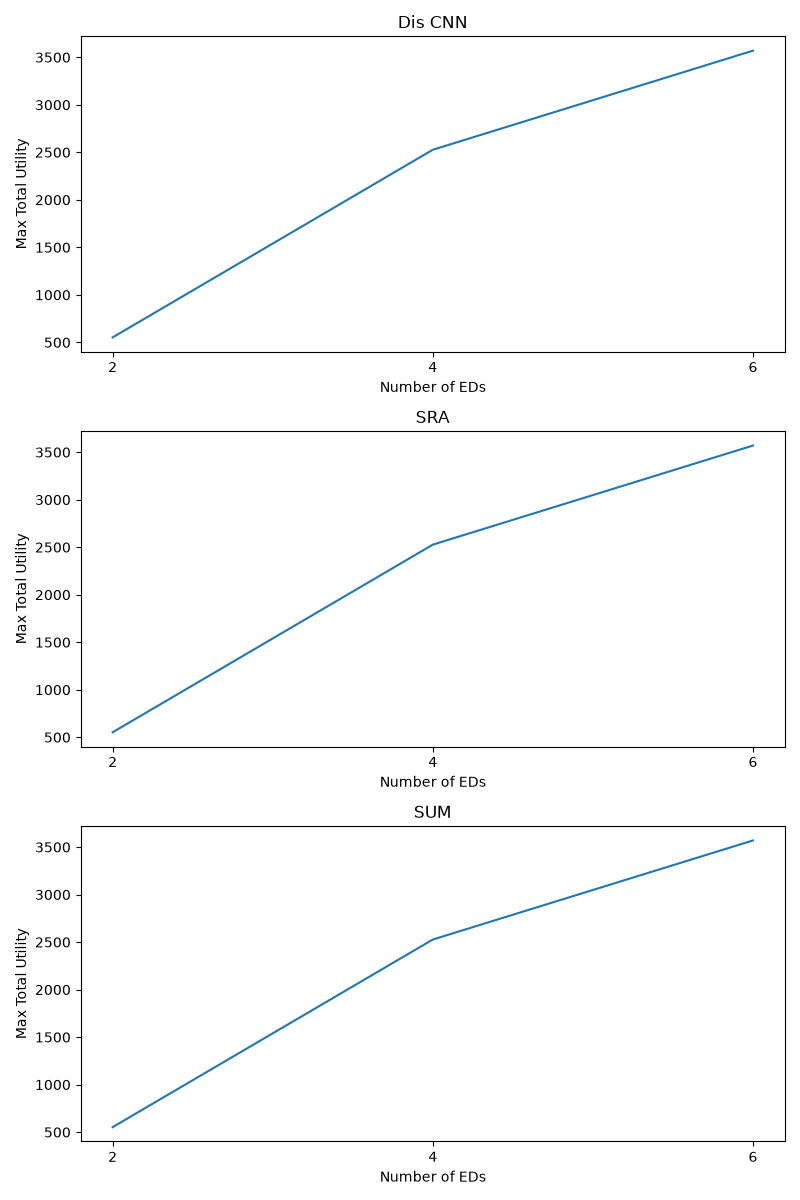
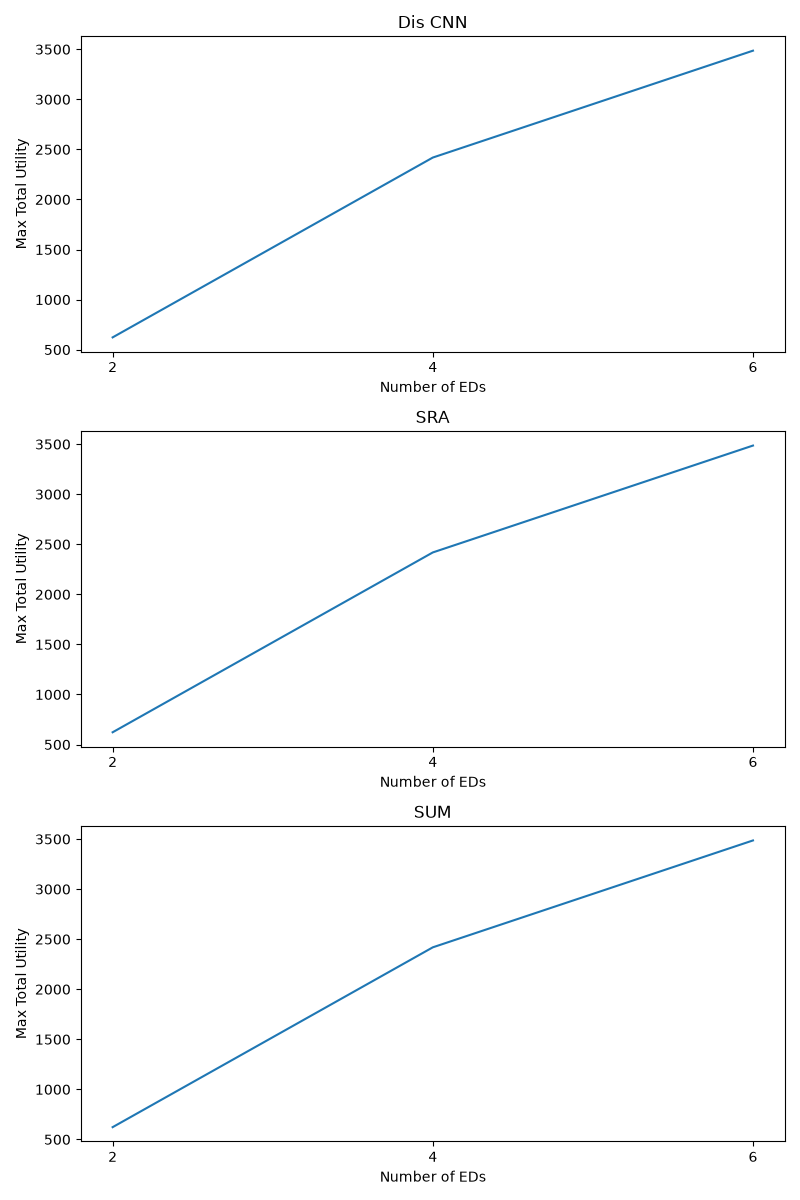
graph part done final

diff --git a/Code/Algos/ServerRA.py b/Code/Algos/ServerRA.py
@@ -1,24 +1,18 @@
-<<<<<<< HEAD
 from Algos.Classes.ED import ED
 import numpy as np
 from typing import List
 from Algos.ServerRA_i import SRA_i
-=======
-from Classes.ED import ED
+from Algos.Classes.ED import ED
 import numpy as np
 from typing import List
-from ServerRA_i import SRA_i
->>>>>>> 57098279b8d8c16bd1b326f527733df340d21a7e
+from Algos.ServerRA_i import SRA_i
 
 #Server Resource Allocation
 
 def SRA(NoX: List[ED], W: float, F: float):
 
-<<<<<<< HEAD
     how_many_get_res=0
 
-=======
->>>>>>> 57098279b8d8c16bd1b326f527733df340d21a7e
     UxNoX: float = 0
     Wi_list: list[float] = []
     Fi_list: list[float] = []
@@ -39,23 +33,17 @@ def SRA(NoX: List[ED], W: float, F: float):
 
     for ed in NoX:
        
-<<<<<<< HEAD
      result = SRA_i(ed, W, F)
      # print(ed.id, result)
-=======
-     result = SRA_i(ed, W, F, 1e-5, 1e-5)
-     print(ed.id, result)
->>>>>>> 57098279b8d8c16bd1b326f527733df340d21a7e
-       
+     # result = SRA_i(ed, W, F, 1e-5, 1e-5)
+     # print(ed.id, result)
+
      if result is None:
             continue
        
      utility, wi, fi = result
-<<<<<<< HEAD
      # print(utility, wi, fi)
-=======
-     print(utility, wi, fi)
->>>>>>> 57098279b8d8c16bd1b326f527733df340d21a7e
+     # print(utility, wi, fi)
 
      if utility > 0 and wi > 0 and fi > 0:
                 
@@ -65,11 +53,8 @@ def SRA(NoX: List[ED], W: float, F: float):
                 
           W -= wi
           F -= fi
-<<<<<<< HEAD
           how_many_get_res += 1
-=======
->>>>>>> 57098279b8d8c16bd1b326f527733df340d21a7e
-        
+
      else:
 
           Wi_list.append(0.0)
@@ -133,8 +118,5 @@ def SRA(NoX: List[ED], W: float, F: float):
         #     if (pi_max != float('-inf')):
         #         UxNoX += pi_max
 
-<<<<<<< HEAD
     return UxNoX, Wi_list, Fi_list, how_many_get_res
-=======
-    return UxNoX, Wi_list, Fi_list
->>>>>>> 57098279b8d8c16bd1b326f527733df340d21a7e
+    # return UxNoX, Wi_list, Fi_list

diff --git a/Code/Algos/test.py b/Code/Algos/test.py
@@ -1,5 +1,4 @@
 from random import randint
-<<<<<<< HEAD
 from Algos.Classes.ED import ED
 import numpy as np
 from Algos.Classes.Model import Layers, Model
@@ -8,16 +7,6 @@ from Algos.MUMS import *
 from Algos.Classes.ED import ED
 from Algos.ServerRA import SRA
 from Algos.SingletonUM import SUM
-=======
-from Classes.ED import ED
-import numpy as np
-from Classes.Model import Layers, Model
-# from typing import Set, List
-from MUMS import *
-from Classes.ED import ED
-from ServerRA import SRA
-from SingletonUM import SUM
->>>>>>> 57098279b8d8c16bd1b326f527733df340d21a7e
 
 #storage is assumed to be in MBs
 #computation resources for ED defined in MHz FLOPS

diff --git a/Code/Algos/MUMS.py b/Code/Algos/MUMS.py
@@ -1,17 +1,10 @@
 #Model Utility Maximization Algorithm
 
 import numpy as np
-<<<<<<< HEAD
 from Algos.Classes.Model import Model
 from Algos.Classes.ED import ED
 from typing import List, Set
 from Algos.SingletonUM import SUM
-=======
-from Classes.Model import Model
-from Classes.ED import ED
-from typing import List, Set
-from SingletonUM import SUM
->>>>>>> 57098279b8d8c16bd1b326f527733df340d21a7e
 
 def utilized_storage(X: Set[Model]) -> float: #total storage utilized by cached models
 

diff --git a/Code/Algos/test2.py b/Code/Algos/test2.py
@@ -1,18 +1,7 @@
-<<<<<<< HEAD
 from Algos.Classes.ED import ED
 from Algos.Classes.Model import Model
 from Algos.test import layer
 import numpy as np
-from Algos.ServerRA import SRA
-from Algos.ServerRA_i import SRA_i
-=======
-from Classes.ED import ED
-from Classes.Model import Model
-from test import layer
-import numpy as np
-from ServerRA import SRA
-from ServerRA_i import SRA_i
->>>>>>> 57098279b8d8c16bd1b326f527733df340d21a7e
 
 mobilenet = Model(
     name="MobileNet",

diff --git a/Code/Algos/SingletonUM.py b/Code/Algos/SingletonUM.py
@@ -1,12 +1,9 @@
-<<<<<<< HEAD
 from Algos.Classes.ED import ED
 from typing import List
 from Algos.ServerRA_i import SRA_i
-=======
-from Classes.ED import ED
+from Algos.Classes.ED import ED
 from typing import List
-from ServerRA_i import SRA_i
->>>>>>> 57098279b8d8c16bd1b326f527733df340d21a7e
+from Algos.ServerRA_i import SRA_i
 
 #Singleton Utility Maximization
 def SUM(Nx: List[ED], W:float, F: float):

diff --git a/Code/Algos/Classes/ED.py b/Code/Algos/Classes/ED.py
@@ -1,9 +1,6 @@
 from dataclasses import dataclass
-<<<<<<< HEAD
 from Algos.Classes.Model import Model
-=======
 from .Model import Model
->>>>>>> 57098279b8d8c16bd1b326f527733df340d21a7e
 import numpy as np
 
 Ic = 10**(-13) #defined gloabally, average channel coherance time

diff --git a/Code/Algos/ServerRA_i.py b/Code/Algos/ServerRA_i.py
@@ -1,8 +1,5 @@
-<<<<<<< HEAD
 from Algos.Classes.ED import ED
-=======
-from Classes.ED import ED
->>>>>>> 57098279b8d8c16bd1b326f527733df340d21a7e
+from Algos.Classes.ED import ED
 import numpy as np
 
 #Server Resource Allocation fir Each Device
